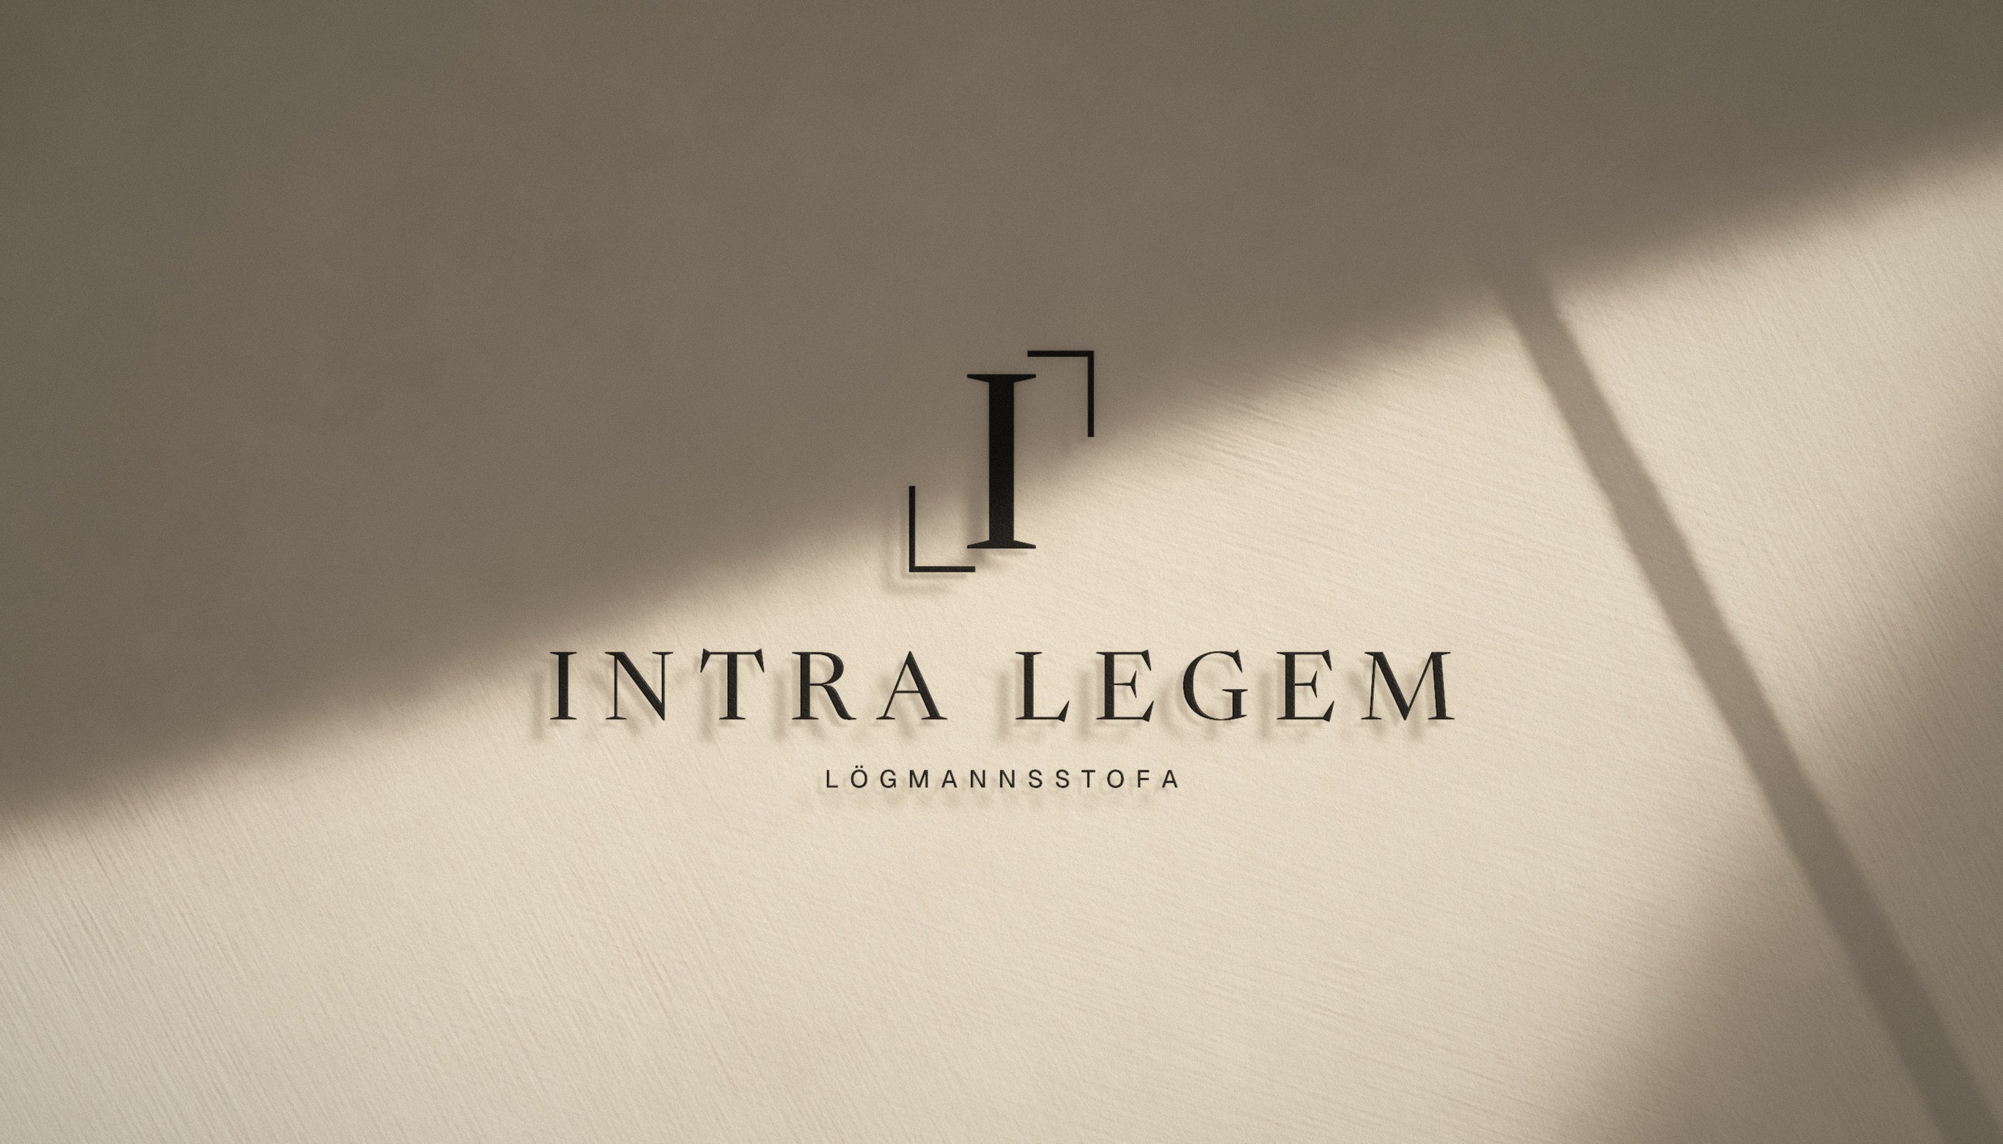
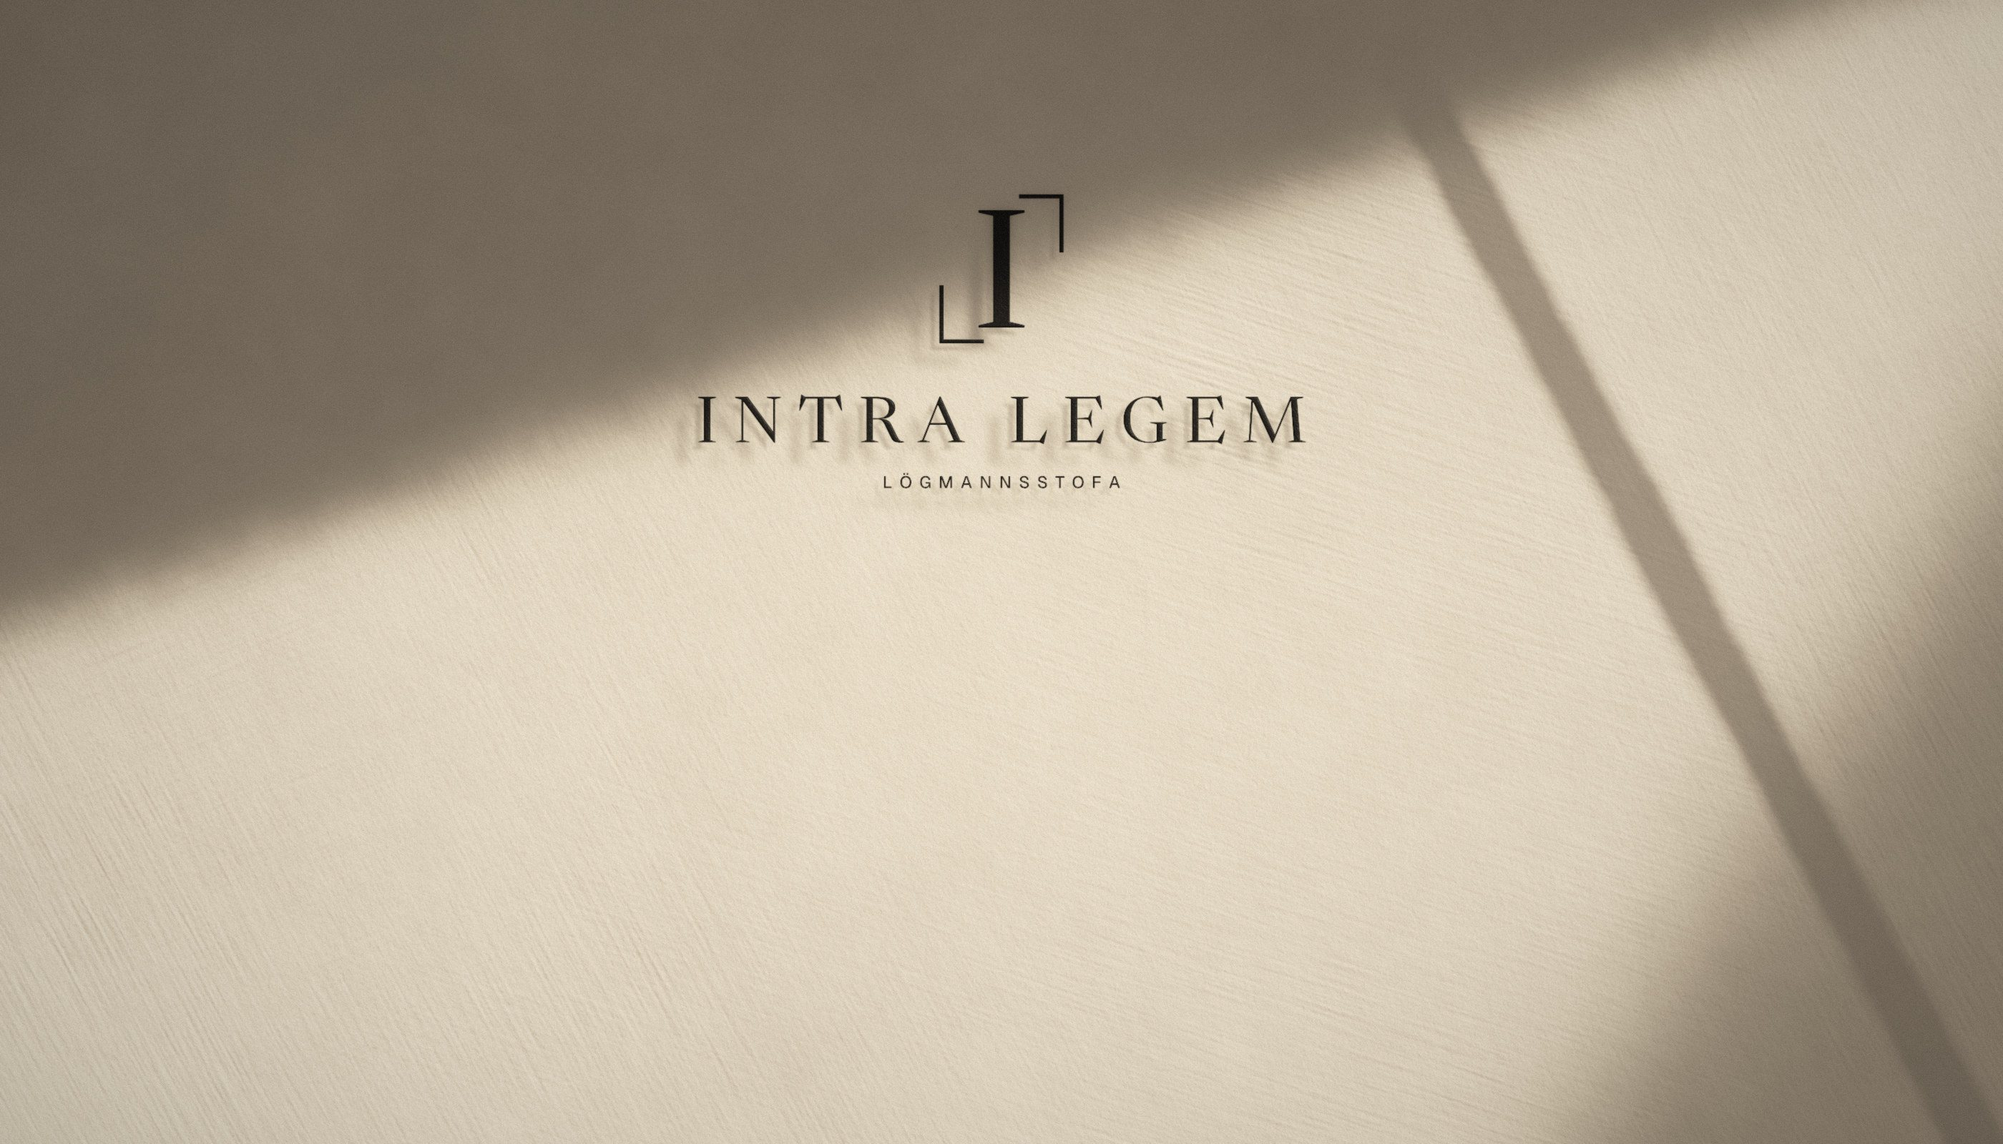
Turn the wall hero into an actionable landing
Move the signage logo higher on the wall and set the headline, lede,
booking and phone CTAs, key practice links and a lawyer info card
directly on the opening screen. Credentials strip follows below.

Claude-Session: https://claude.ai/code/session_01PQkqt6jEd7RycxQWKXw4R5

Changed region(s): [[0.0, 0.0, 1.0, 0.75]]

diff --git a/index.html b/index.html
@@ -212,81 +212,84 @@
   .logo { height: 30px; width: auto; display: block; color: var(--ink); }
   .logo-foot { height: 26px; }
 
-  /* ---------- Wall ---------- */
+  /* ---------- Hero / wall ---------- */
   .wall {
+    --wall-h: max(100vh, 780px);
     position: relative;
-    height: 100vh; height: 100svh;
-    min-height: 560px; max-height: 1200px;
+    min-height: var(--wall-h);
+    display: flex; flex-direction: column; justify-content: flex-end;
+    padding: 120px 0 clamp(40px, 5vw, 64px);
+    background: var(--paper);
     overflow: hidden;
-    background: #CFC3AE;
   }
-  .wall picture, .wall img { position: absolute; inset: 0; width: 100%; height: 100%; }
-  .wall img {
-    object-fit: cover; object-position: 50% 50%;
-    transform: scale(1.06);
+  @supports (height: 100svh) { .wall { --wall-h: max(100svh, 780px); } }
+  .wall-img, .wall-veil { position: absolute; left: 0; right: 0; top: 0; height: var(--wall-h); }
+  .wall-img { background: #D8CCB6; }
+  .wall-img img {
+    width: 100%; height: 100%;
+    object-fit: cover; object-position: 50% 24%;
+    transform: scale(1.05);
     transition: transform 3.2s cubic-bezier(0.16, 0.8, 0.2, 1), opacity 1.4s ease;
     opacity: 0;
-    will-change: transform;
   }
-  .loaded .wall img, .wall img.ready { opacity: 1; transform: scale(1); }
-  .wall-foot {
-    position: absolute; left: 0; right: 0; bottom: 28px;
-    display: flex; justify-content: space-between; align-items: center;
+  .wall-img img.ready { opacity: 1; transform: scale(1); }
+  .wall-veil {
+    background: linear-gradient(to bottom,
+      rgba(245, 244, 240, 0) 42%,
+      rgba(245, 244, 240, 0.42) 66%,
+      rgba(245, 244, 240, 0.86) 88%,
+      var(--paper) 100%);
   }
-  .wall-foot .label { color: rgba(15, 18, 21, 0.62); }
-  .wall-cue { display: inline-flex; align-items: center; gap: 10px; transition: color .3s; }
-  .wall-cue svg { width: 10px; height: 18px; animation: cue 2.4s var(--ease) infinite; }
-  .wall-cue:hover { color: var(--ink); }
-  @keyframes cue { 0%, 100% { transform: translateY(-2px); opacity: .5; } 50% { transform: translateY(3px); opacity: 1; } }
-
-  /* ---------- Hero ---------- */
-  .hero { padding: clamp(96px, 11vw, 150px) 0 0; }
-  .hero-grid {
-    display: grid;
-    grid-template-columns: repeat(12, 1fr);
-    column-gap: 24px;
+  .wall-content {
+    position: relative; width: 100%;
+    display: grid; grid-template-columns: repeat(12, 1fr); column-gap: 24px;
     align-items: end;
   }
-  .hero-copy { grid-column: 1 / span 7; padding-bottom: 8px; }
-  .hero-kicker { display: flex; align-items: center; gap: 12px; margin-bottom: 36px; }
+  .wall-copy { grid-column: 1 / span 7; }
+  .hero-kicker { display: flex; align-items: center; gap: 12px; margin-bottom: 22px; color: var(--ink-2); }
   .hero-kicker::before { content: ''; width: 28px; height: 1px; background: var(--accent); }
-  .hero h1 {
-    font-size: clamp(46px, 7.4vw, 112px);
+  .wall h1 {
+    font-size: clamp(40px, 4.7vw, 72px);
     font-weight: 300;
-    letter-spacing: -0.03em;
-    line-height: 0.98;
+    letter-spacing: -0.028em;
+    line-height: 1.0;
+    max-width: 13em;
   }
-  .hero h1 em { font-style: italic; font-weight: 300; }
-  .hero-lede {
-    margin-top: 36px;
-    max-width: 34em;
-    font-size: clamp(17px, 1.35vw, 19px);
-    line-height: 1.6;
-    color: var(--ink-2);
-  }
-  .hero-actions { display: flex; flex-wrap: wrap; gap: 12px; margin-top: 40px; }
+  .wall h1 em { font-style: italic; }
+  .hero-lede { margin-top: 22px; max-width: 34em; font-size: clamp(16px, 1.25vw, 18.5px); line-height: 1.6; color: var(--ink-2); }
+  .hero-actions { display: flex; flex-wrap: wrap; gap: 10px; margin-top: 30px; }
+  .btn .ic-phone { width: 15px; height: 15px; }
+  .btn:hover .ic-phone { transform: none; }
+  .wall .btn.ghost { background: rgba(245, 244, 240, 0.55); -webkit-backdrop-filter: blur(6px); backdrop-filter: blur(6px); }
 
-  .hero-figure { grid-column: 9 / span 4; position: relative; }
-  .portrait {
-    position: relative;
-    aspect-ratio: 4 / 5;
-    overflow: hidden;
-    background: var(--paper-3);
+  .quick { display: flex; flex-wrap: wrap; align-items: baseline; gap: 6px 20px; margin-top: 34px; font-size: 14px; }
+  .quick .label { margin-right: 4px; }
+  .quick a { color: var(--ink); border-bottom: 1px solid var(--rule-strong); padding-bottom: 2px; transition: border-color .25s, color .25s; }
+  .quick a:hover { border-color: var(--accent); color: var(--accent); }
+
+  .card {
+    grid-column: 9 / span 4;
+    background: rgba(250, 249, 246, 0.74);
+    -webkit-backdrop-filter: saturate(1.2) blur(14px); backdrop-filter: saturate(1.2) blur(14px);
+    border: 1px solid rgba(15, 18, 21, 0.1);
+    padding: 22px 22px 18px;
+    box-shadow: 0 30px 60px -30px rgba(40, 30, 15, 0.35);
   }
-  .portrait img {
-    width: 100%; height: 100%; object-fit: cover; object-position: 54% 30%;
-    transform: scale(1.04);
-    transition: transform 1.8s var(--ease);
-  }
-  .loaded .portrait img { transform: scale(1); }
-  .hero-figure figcaption {
-    display: flex; justify-content: space-between; gap: 16px;
-    padding-top: 14px; font-size: 13px; color: var(--muted);
-  }
-  .hero-figure figcaption b { color: var(--ink); font-weight: 500; }
+  .card-head { display: flex; gap: 14px; align-items: center; padding-bottom: 16px; border-bottom: 1px solid var(--rule); }
+  .card-head img { width: 56px; height: 56px; object-fit: cover; object-position: 54% 18%; flex-shrink: 0; }
+  .card-head b { display: block; font-family: var(--serif); font-weight: 400; font-size: 21px; line-height: 1.15; }
+  .card-head span { font-size: 13px; color: var(--muted); }
+  .card-list { list-style: none; padding: 14px 0; border-bottom: 1px solid var(--rule); }
+  .card-list li { display: flex; gap: 10px; align-items: baseline; font-size: 14px; line-height: 1.45; color: var(--ink-2); padding: 4px 0; }
+  .card-list .dot { width: 5px; height: 5px; background: var(--accent); flex-shrink: 0; transform: translateY(-2px); }
+  .card-foot { display: flex; flex-wrap: wrap; justify-content: space-between; gap: 6px 16px; padding-top: 14px; font-size: 13.5px; }
+  .card-foot a { transition: color .25s; }
+  .card-foot a:hover { color: var(--accent); }
+  .card-more { color: var(--muted); }
+
+  .facts-band { padding-top: clamp(24px, 3vw, 40px); }
 
   .facts {
-    margin-top: clamp(64px, 9vw, 120px);
     display: grid;
     grid-template-columns: repeat(4, 1fr);
     border-top: 1px solid var(--rule-strong);
@@ -518,8 +521,8 @@
   /* ---------- Responsive ---------- */
   @media (max-width: 1080px) {
     .nav-links { gap: 24px; }
-    .hero-copy { grid-column: 1 / span 7; }
-    .hero-figure { grid-column: 8 / span 5; }
+    .wall-copy { grid-column: 1 / span 7; }
+    .card { grid-column: 8 / span 5; }
     .two-col .c1 { grid-column: 1 / span 6; }
     .two-col .c2 { grid-column: 7 / span 6; }
     .area .n { grid-column: 1 / span 1; }
@@ -547,11 +550,13 @@
     .nav-links .btn { margin-top: 20px; justify-content: center; width: 100%; }
     .nav-links .lang-li { padding-top: 20px; }
     .menu-btn { display: block; }
+    .wall { --wall-h: 100vh; padding-top: 0; min-height: 0; display: block; }
+    @supports (height: 100svh) { .wall { --wall-h: 100svh; } }
+    .wall-img img { object-position: 50% 20%; }
+    .wall-content { display: block; padding-top: calc(var(--wall-h) * 0.40); }
+    .card { margin-top: 44px; max-width: 480px; }
     .brand-sub { display: none; }
 
-    .hero { padding-top: 88px; }
-    .hero-copy, .hero-figure { grid-column: 1 / -1; }
-    .hero-figure { margin-top: 56px; max-width: 460px; }
     .facts { grid-template-columns: 1fr 1fr; }
     .fact:nth-child(2) { border-right: 0; }
     .fact:nth-child(3) { padding-left: 0; }
@@ -583,7 +588,6 @@
     .facts { grid-template-columns: 1fr; }
     .fact, .fact + .fact { padding: 20px 0; border-right: 0; }
     .fact + .fact { border-top: 1px solid var(--rule); }
-    .hero-figure figcaption { flex-direction: column; gap: 2px; }
   }
 </style>
 </head>
@@ -618,48 +622,64 @@
 
 <main id="main">
 
-<!-- ========== WALL ========== -->
-<section class="wall" aria-label="Intra Legem">
-  <picture>
+<!-- ========== HERO / WALL ========== -->
+<section class="wall" id="top" aria-labelledby="heroTitle">
+  <picture class="wall-img">
     <source media="(max-width: 760px)" srcset="assets/intra-legem-wall-tall.webp" type="image/webp">
     <source media="(max-width: 760px)" srcset="assets/intra-legem-wall-tall.jpg">
     <source srcset="assets/intra-legem-wall-wide.webp" type="image/webp">
     <img src="assets/intra-legem-wall-wide.jpg" alt="Merki Intra Legem á múrvegg í síðdegissól" width="2800" height="1600" fetchpriority="high" decoding="async">
   </picture>
-  <div class="wall-foot wrap">
-    <span class="label" data-i18n="wallLoc">Gróska · Reykjavík</span>
-    <a href="#top" class="wall-cue label"><span data-i18n="wallCue">Skruna</span><svg viewBox="0 0 12 20" aria-hidden="true"><path d="M6 1v17M1 13l5 5 5-5" fill="none" stroke="currentColor" stroke-width="1.2"/></svg></a>
+  <div class="wall-veil" aria-hidden="true"></div>
+
+  <div class="wall-content wrap">
+    <div class="wall-copy">
+      <p class="label hero-kicker rv" data-i18n="heroKicker">Lögmannsstofa · Gróska, Reykjavík</p>
+      <h1 id="heroTitle" class="rv d1" data-i18n-html="heroTitle">Innan vébanda laganna — <em>með skýra stefnu.</em></h1>
+      <p class="hero-lede rv d2" data-i18n="heroLede">Sérsniðin lögmannsþjónusta fyrir fyrirtæki, fjárfesta og frumkvöðla, með áherslu á samkeppnisrétt, samningagerð og málflutning.</p>
+      <div class="hero-actions rv d3">
+        <a href="#samband" class="btn">
+          <span data-i18n="ctaPrimary">Bóka samtal</span>
+          <svg viewBox="0 0 16 16" fill="none" aria-hidden="true"><path d="M1 8h13M9 3l5 5-5 5" stroke="currentColor" stroke-width="1.4"/></svg>
+        </a>
+        <a href="tel:+3548926064" class="btn ghost">
+          <svg viewBox="0 0 16 16" fill="none" aria-hidden="true" class="ic-phone"><path d="M5.2 1.8 3.4 2.3c-.9.3-1.5 1.2-1.3 2.2.9 4.6 4.5 8.2 9.1 9.1 1 .2 1.9-.4 2.2-1.3l.5-1.8-3-1.6-1.3 1.4C8 9.6 6.4 8 5.7 6.4l1.4-1.3-1.9-3.3Z" stroke="currentColor" stroke-width="1.2" stroke-linejoin="round"/></svg>
+          <span>+354 892 6064</span>
+        </a>
+      </div>
+      <nav class="quick rv d3" aria-label="Helstu svið">
+        <span class="label" data-i18n="quickLabel">Helstu svið</span>
+        <a href="#svid-1" data-i18n="q1">Samkeppnisréttur</a>
+        <a href="#svid-3" data-i18n="q2">Samningar og félög</a>
+        <a href="#svid-4" data-i18n="q3">Kaup og sala fyrirtækja</a>
+        <a href="#svid-5" data-i18n="q4">Málflutningur</a>
+      </nav>
+    </div>
+
+    <aside class="card rv d2" aria-label="Hallmundur Albertsson">
+      <div class="card-head">
+        <img src="assets/hallmundur-albertsson.jpg" alt="" width="713" height="475">
+        <div>
+          <b>Hallmundur Albertsson</b>
+          <span data-i18n="cardRole">Lögmaður og eigandi</span>
+        </div>
+      </div>
+      <ul class="card-list">
+        <li><span class="dot" aria-hidden="true"></span><span data-i18n="card1">Viðurkenndur af Legal 500 í samkeppnisrétti</span></li>
+        <li><span class="dot" aria-hidden="true"></span><span data-i18n="card2">Málflutningsréttindi fyrir Landsrétti</span></li>
+        <li><span class="dot" aria-hidden="true"></span><span data-i18n="card3">MA í samkeppnisrétti, King’s College London</span></li>
+      </ul>
+      <div class="card-foot">
+        <a href="mailto:hallmundur@intralegem.is">hallmundur@intralegem.is</a>
+        <a href="#logmadur" class="card-more" data-i18n="cardMore">Nánar um Hallmund →</a>
+      </div>
+    </aside>
   </div>
 </section>
 
-<!-- ========== HERO ========== -->
-<section class="hero" id="top">
+<!-- ========== FACTS ========== -->
+<section class="facts-band">
   <div class="wrap">
-    <div class="hero-grid">
-      <div class="hero-copy">
-        <p class="label hero-kicker rv" data-i18n="heroKicker">Lögmannsstofa · Reykjavík</p>
-        <h1 class="rv d1" data-i18n-html="heroTitle">Innan vébanda laganna — <em>með skýra stefnu.</em></h1>
-        <p class="hero-lede rv d2" data-i18n="heroLede">Sérsniðin lögmannsþjónusta fyrir fyrirtæki, fjárfesta og frumkvöðla, með áherslu á samkeppnisrétt, samningagerð og málflutning.</p>
-        <div class="hero-actions rv d3">
-          <a href="#samband" class="btn">
-            <span data-i18n="ctaPrimary">Bóka samtal</span>
-            <svg viewBox="0 0 16 16" fill="none" aria-hidden="true"><path d="M1 8h13M9 3l5 5-5 5" stroke="currentColor" stroke-width="1.4"/></svg>
-          </a>
-          <a href="#starfssvid" class="btn ghost" data-i18n="ctaSecondary">Starfssvið</a>
-        </div>
-      </div>
-
-      <figure class="hero-figure rv d2">
-        <div class="portrait">
-          <img src="assets/hallmundur-albertsson.jpg" alt="Hallmundur Albertsson lögmaður" width="713" height="475" fetchpriority="high">
-        </div>
-        <figcaption>
-          <b>Hallmundur Albertsson</b>
-          <span data-i18n="heroCaption">Lögmaður og eigandi</span>
-        </figcaption>
-      </figure>
-    </div>
-
     <div class="facts rv">
       <div class="fact">
         <span class="k">Legal 500</span>
@@ -709,31 +729,31 @@
     </div>
 
     <ul class="areas">
-      <li class="rv"><details class="area">
+      <li class="rv" id="svid-1"><details class="area">
         <summary><span class="n">01</span><span class="t" data-i18n="a1t">Samkeppnisréttur, ríkisaðstoð og EES-réttur</span><span class="ic" aria-hidden="true"></span></summary>
         <div class="body"><p data-i18n="a1d">Samrunamál og tilkynningar til Samkeppniseftirlitsins, rannsóknir og húsleitir, gerð samkeppnisréttaráætlana og ráðgjöf um ríkisaðstoð og reglur EES-réttar.</p></div>
       </details></li>
-      <li class="rv"><details class="area">
+      <li class="rv" id="svid-2"><details class="area">
         <summary><span class="n">02</span><span class="t" data-i18n="a2t">Fjarskipti, fjölmiðlar, upplýsingatækni og nýsköpun</span><span class="ic" aria-hidden="true"></span></summary>
         <div class="body"><p data-i18n="a2d">Regluverk fjarskipta- og fjölmiðlamarkaða, samskipti við eftirlitsstofnanir, samningar tæknifyrirtækja og ráðgjöf til nýsköpunar- og sprotafyrirtækja á öllum stigum.</p></div>
       </details></li>
-      <li class="rv"><details class="area">
+      <li class="rv" id="svid-3"><details class="area">
         <summary><span class="n">03</span><span class="t" data-i18n="a3t">Samninga- og félagaréttur og stjórnarhættir</span><span class="ic" aria-hidden="true"></span></summary>
         <div class="body"><p data-i18n="a3d">Gerð og yfirferð viðskiptasamninga, hluthafasamkomulög, stofnun og skipulag félaga og ráðgjöf til stjórna um góða stjórnarhætti.</p></div>
       </details></li>
-      <li class="rv"><details class="area">
+      <li class="rv" id="svid-4"><details class="area">
         <summary><span class="n">04</span><span class="t" data-i18n="a4t">Kaup og sala fyrirtækja</span><span class="ic" aria-hidden="true"></span></summary>
         <div class="body"><p data-i18n="a4d">Áreiðanleikakannanir, kaupsamningar, fjármögnun og samrunaeftirlit — frá fyrstu viljayfirlýsingu til afhendingar.</p></div>
       </details></li>
-      <li class="rv"><details class="area">
+      <li class="rv" id="svid-5"><details class="area">
         <summary><span class="n">05</span><span class="t" data-i18n="a5t">Málflutningur og úrlausn ágreinings</span><span class="ic" aria-hidden="true"></span></summary>
         <div class="body"><p data-i18n="a5d">Málflutningur fyrir héraðsdómstólum og Landsrétti, rekstur mála fyrir stjórnvöldum og úrskurðarnefndum, og sáttamiðlun þar sem hún á við.</p></div>
       </details></li>
-      <li class="rv"><details class="area">
+      <li class="rv" id="svid-6"><details class="area">
         <summary><span class="n">06</span><span class="t" data-i18n="a6t">Opinber innkaup, útboð og verksamningar</span><span class="ic" aria-hidden="true"></span></summary>
         <div class="body"><p data-i18n="a6d">Ráðgjöf til kaupenda og bjóðenda, kærumál vegna útboða og gerð verksamninga, meðal annars á grundvelli FIDIC-staðla.</p></div>
       </details></li>
-      <li class="rv"><details class="area">
+      <li class="rv" id="svid-7"><details class="area">
         <summary><span class="n">07</span><span class="t" data-i18n="a7t">Orkuréttur</span><span class="ic" aria-hidden="true"></span></summary>
         <div class="body"><p data-i18n="a7d">Regluverk orkumarkaðar, samningar um kaup og sölu orku og ráðgjöf vegna leyfismála.</p></div>
       </details></li>
@@ -912,8 +932,7 @@
 
   // Nav state
   var nav = document.getElementById('nav');
-  var wall = document.querySelector('.wall');
-  var onScroll = function () { nav.classList.toggle('scrolled', window.scrollY > wall.offsetHeight - 90); };
+  var onScroll = function () { nav.classList.toggle('scrolled', window.scrollY > 40); };
   onScroll();
   window.addEventListener('scroll', onScroll, { passive: true });
 
@@ -941,7 +960,7 @@
   } else {
     els.forEach(function (el) { el.classList.add('in'); });
   }
-  var wallImg = document.querySelector('.wall img');
+  var wallImg = document.querySelector('.wall-img img');
   var ready = function () { wallImg.classList.add('ready'); };
   if (wallImg.complete && wallImg.naturalWidth) ready(); else wallImg.addEventListener('load', ready);
   window.addEventListener('load', function () { doc.classList.add('loaded'); });
@@ -966,12 +985,12 @@
     skip: 'Skip to content',
     brandSub: 'Law firm',
     navAreas: 'Practice areas', navLawyer: 'Lawyer', navCareer: 'Career', navContact: 'Contact',
-    heroKicker: 'Law firm · Reykjavík',
-    wallLoc: 'Gróska · Reykjavík', wallCue: 'Scroll',
+    heroKicker: 'Law firm · Gróska, Reykjavík',
+    quickLabel: 'Key areas', q1: 'Competition law', q2: 'Contracts and companies', q3: 'Mergers and acquisitions', q4: 'Litigation',
+    cardRole: 'Attorney and founder', card1: 'Recognised by The Legal 500 for competition law', card2: 'Rights of audience before the Court of Appeal', card3: 'MA in EU Competition Law, King’s College London', cardMore: 'More about Hallmundur →',
     heroTitle: 'Within the bounds of the law — <em>with a clear strategy.</em>',
     heroLede: 'Tailored legal services for companies, investors and entrepreneurs, with a focus on competition law, commercial contracts and litigation.',
-    ctaPrimary: 'Book a consultation', ctaSecondary: 'Practice areas',
-    heroCaption: 'Attorney and founder',
+    ctaPrimary: 'Book a consultation', 
     fact1: 'Recognised among Iceland’s leading competition lawyers',
     fact2k: 'Court of Appeal', fact2: 'Rights of audience before Landsréttur',
     fact3: 'MA in EU Competition Law, London',

diff --git a/tools/brand/render.py b/tools/brand/render.py
@@ -70,7 +70,7 @@ Hv = (Ldir + V); Hv /= np.linalg.norm(Hv)
 # window light: lit region below a diagonal edge, with a mullion; soft penumbra + slight edge wobble
 yy, xx = np.mgrid[0:H, 0:W].astype(np.float32)
 wob = nd.gaussian_filter(fbm(H, W, 2.8, 33), 3) * 6
-edge = (yy - (0.02*H + 0.075*W + (W - xx)*0.34)) + wob            # diagonal: dark top-left wedge
+edge = (yy - ((LOGO_Y - 0.48)*H + 0.02*H + 0.075*W + (W - xx)*0.34)) + wob            # diagonal: dark top-left wedge
 sun = 1/(1+np.exp(-edge/26))
 edge2 = ((xx*0.9 + yy*0.55) - 0.82*W) + wob              # second soft falloff far right-bottom -> window frame
 sun *= 1 - 0.9/(1+np.exp(-(edge2 - 520)/60))
